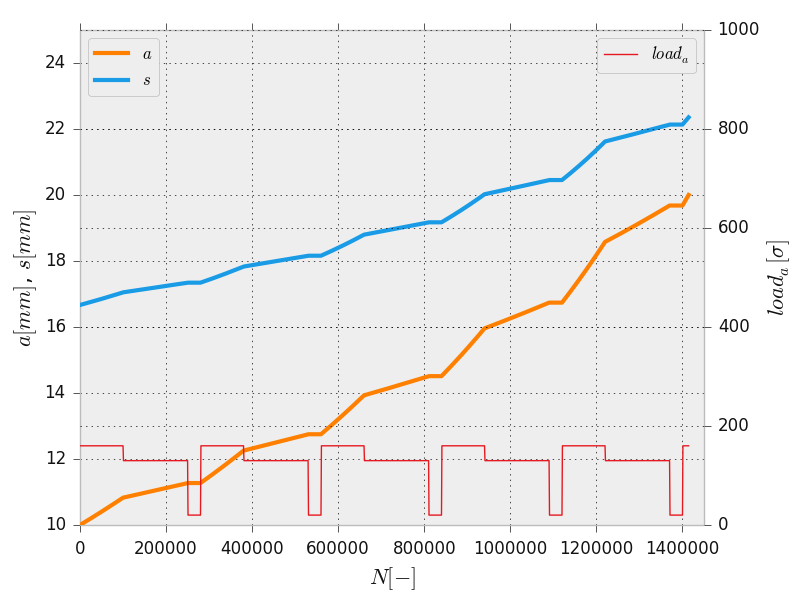
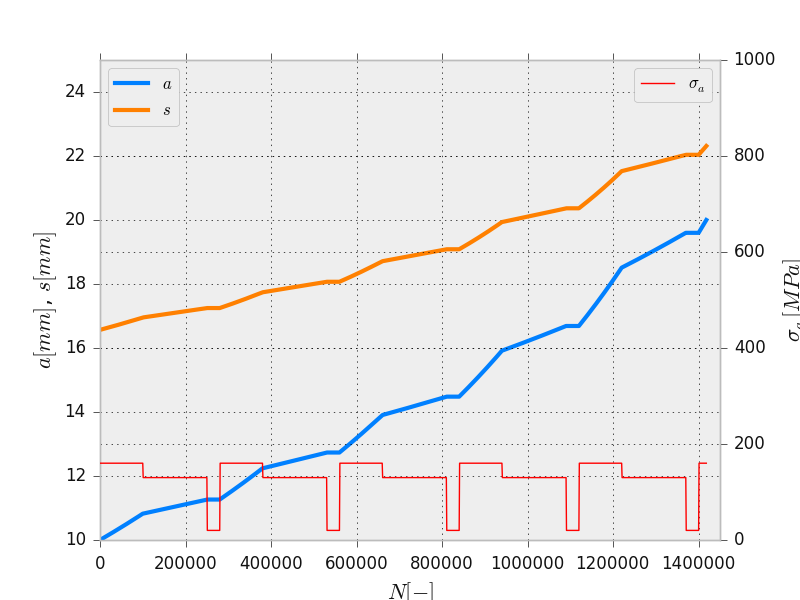
Aktualisierung von plotbaren Werten

diff --git a/index.html b/index.html
@@ -361,7 +361,12 @@
               <tr>
                 <td>$a$</td>
                 <td>$[mm]$</td>
-                <td>Risstiefe</td>
+                <td>Risstiefe, <br>oder kleine Halbachse des halbelliptischen Risses</td>
+              </tr>
+              <tr>
+                <td>$c$</td>
+                <td>$[mm]$</td>
+                <td>Große Halbachse des halbelliptischen Risses</td>
               </tr>
               <tr>
                 <td>$s$</td>
@@ -369,12 +374,12 @@
                 <td>Rissbreite an der Oberfläche<br>(Vorsicht: $s$ entspricht nur der halben Rissbreite an der Oberfläche)</td>
               </tr>
               <tr>
-                <td>$\frac{da_A}{dN}, \frac{da_S}{dN}$</td>
+                <td>$\frac{da}{dN}, \frac{ds}{dN}$</td>
                 <td>$[\frac{mm}{Lastwechsel}]$</td>
                 <td>Risswachstumsgeschwindigkeit in die Tiefe und an der Oberfläche</td>
               </tr>
               <tr>
-                <td>$\Delta K_A, \Delta K_S$</td>
+                <td>$\Delta K_A, \Delta K_C$</td>
                 <td>$[MPa\sqrt{m}]$</td>
                 <td>Schwingbreite des Spannungsintensitätsfaktors</td>
               </tr>
@@ -384,7 +389,7 @@
                 <td>Anzahl Lastwechsel</td>
               </tr>
               <tr>
-                <td>$R_A, R_S$</td>
+                <td>$R_A, R_C$</td>
                 <td>$[-]$</td>
                 <td>Spannungsverhältnis</td>
               </tr>
@@ -416,13 +421,13 @@
               <tr>
                 <td>$a/r$</td>
                 <td>$[-]$</td>
-                <td>Verhältnis von Achsenradius zu Risstiefe</td>
+                <td>Verhältnis von Risstiefe zu Achsenradius</td>
               </tr>
             </table>
             <img class="center" src="./src/img/result.png" alt=""/>
             <div class="subtitle">
               <b>Abbildung 10.</b>
-              Ergebnisfenster mit geplotteter Risslänge in beide Richtungen über Anzahl der Lastwechsel, kombiniert mit der Lastamplitude $\sigma_a$ in rot. Die
+              Ergebnisfenster mit geplotteter Risslänge in beide Richtungen a und s über Anzahl der Lastwechsel, kombiniert mit der Lastamplitude $\sigma_a$ in rot.
             </div>
             <h4>In Zwischenablage kopieren</h4>
             Um die Ergebnisse der Rechnung in die Zwischenablage zu kopieren anstatt sie graphish zu plotten dient der Button "In Zwischenablage kopiere". Wenn dieser geklicht wird öffnet sich das selbe Dialogfenster wie beim Button "Neuer Plot". Hier sind nun die gewünschten Spalten/Daten zu wählen. Nach einem Klick auf OK sind die Daten in der Zwischenablage und können in zum Beispiel Excel oder Origin eingefügt werden. (mittels Einfügen Menü oder Tastenkombination [Strg]+[V]).
